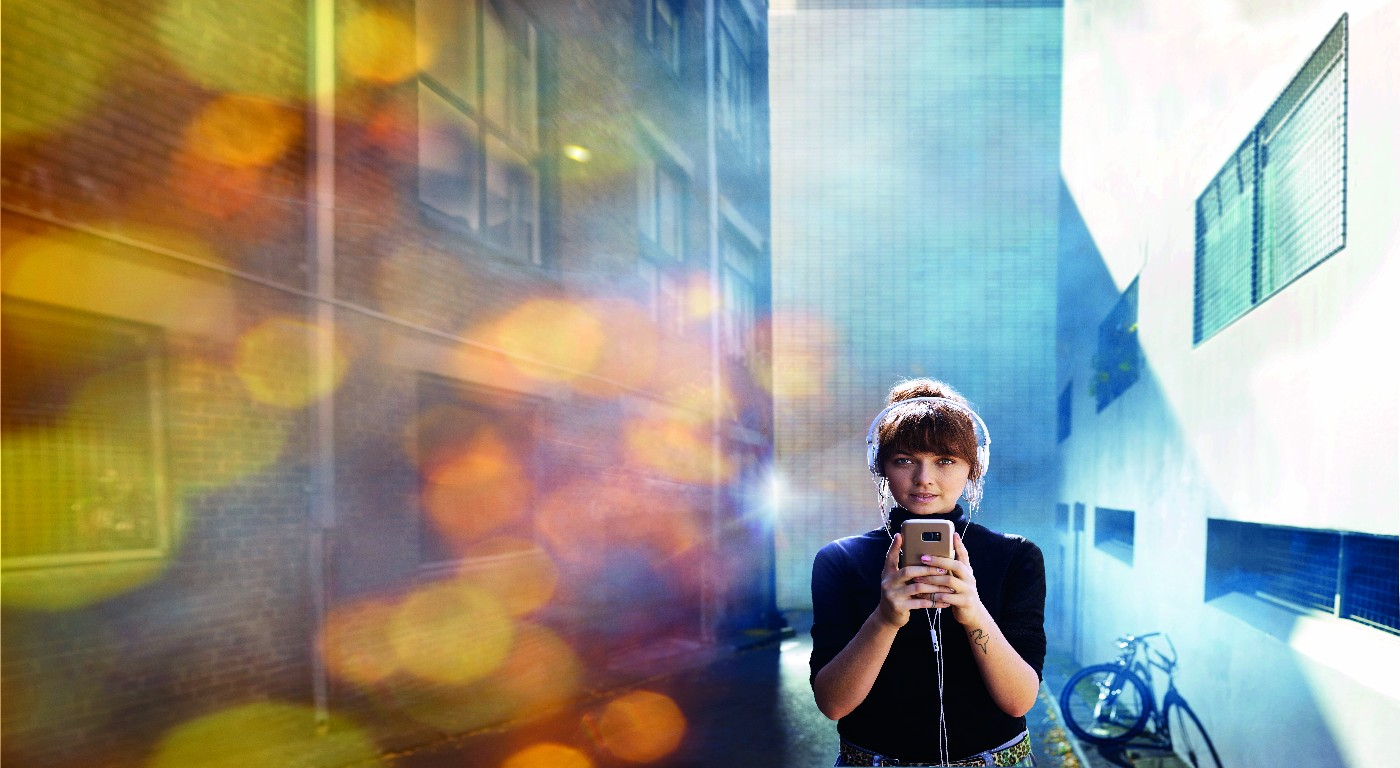
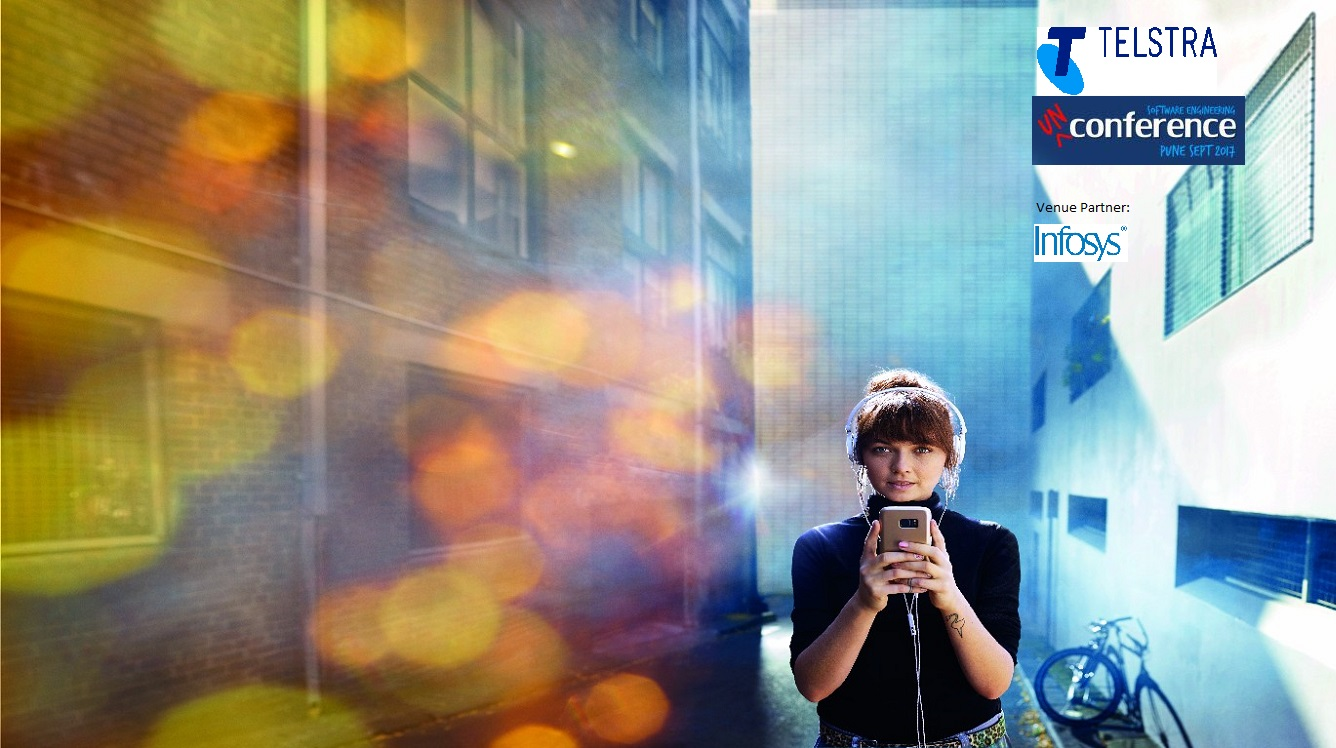
lighten up and new wallpaper

diff --git a/styles/homePage.css b/styles/homePage.css
@@ -4,7 +4,7 @@
 
 body {
   background-color: black;
-  background: url("../img/telstra.jpg") no-repeat;
+  background: url("../img/3.jpg") no-repeat;
   font-family: "Calibri", "Roboto", sans-serif;
   -webkit-background-size: cover;
         -moz-background-size: cover;
@@ -19,7 +19,7 @@ body {
   height: 500px;
   border-radius: 10px;
   background-color: #fff;
-  left: 50%;
+  left: 30%;
   top: 55%;
   transform: translateX(-50%) translateY(-50%);
   box-shadow: 20px 20px 50px rgba(0, 0, 0, 0.5);
